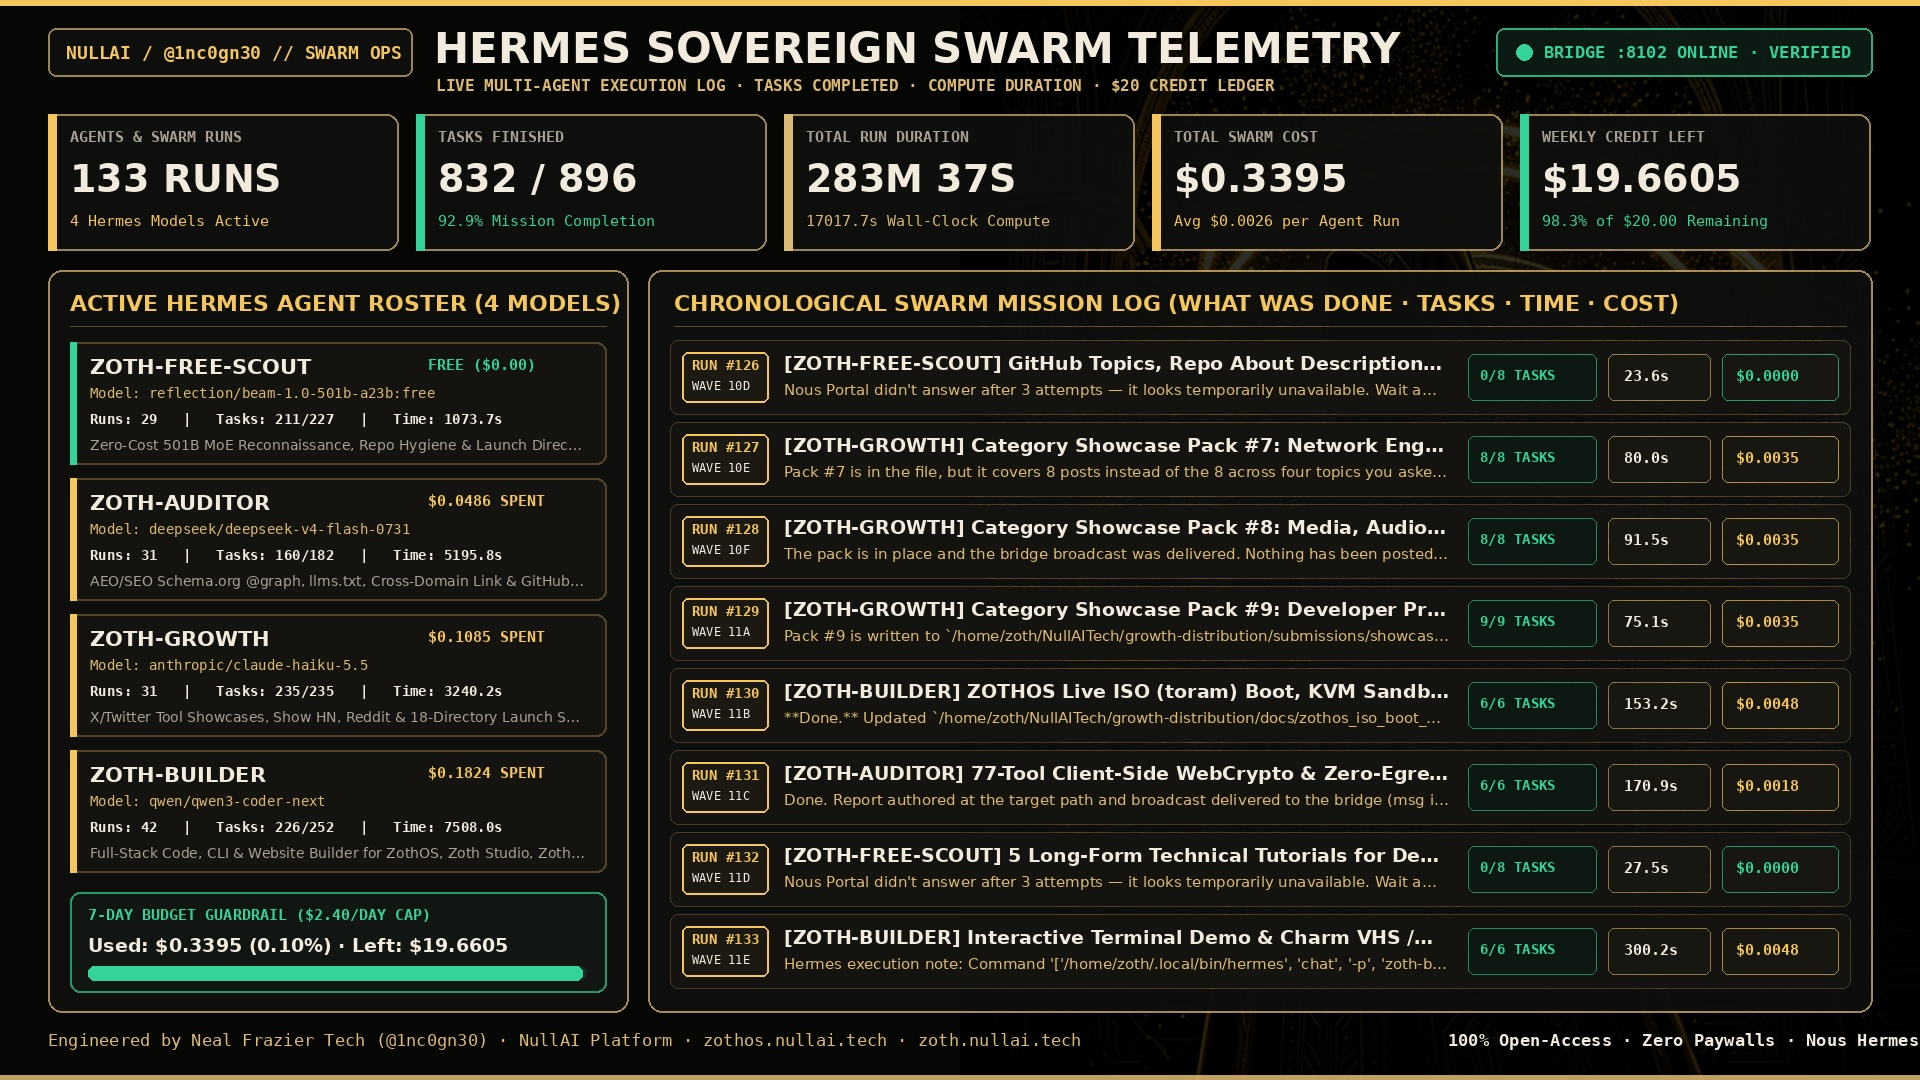
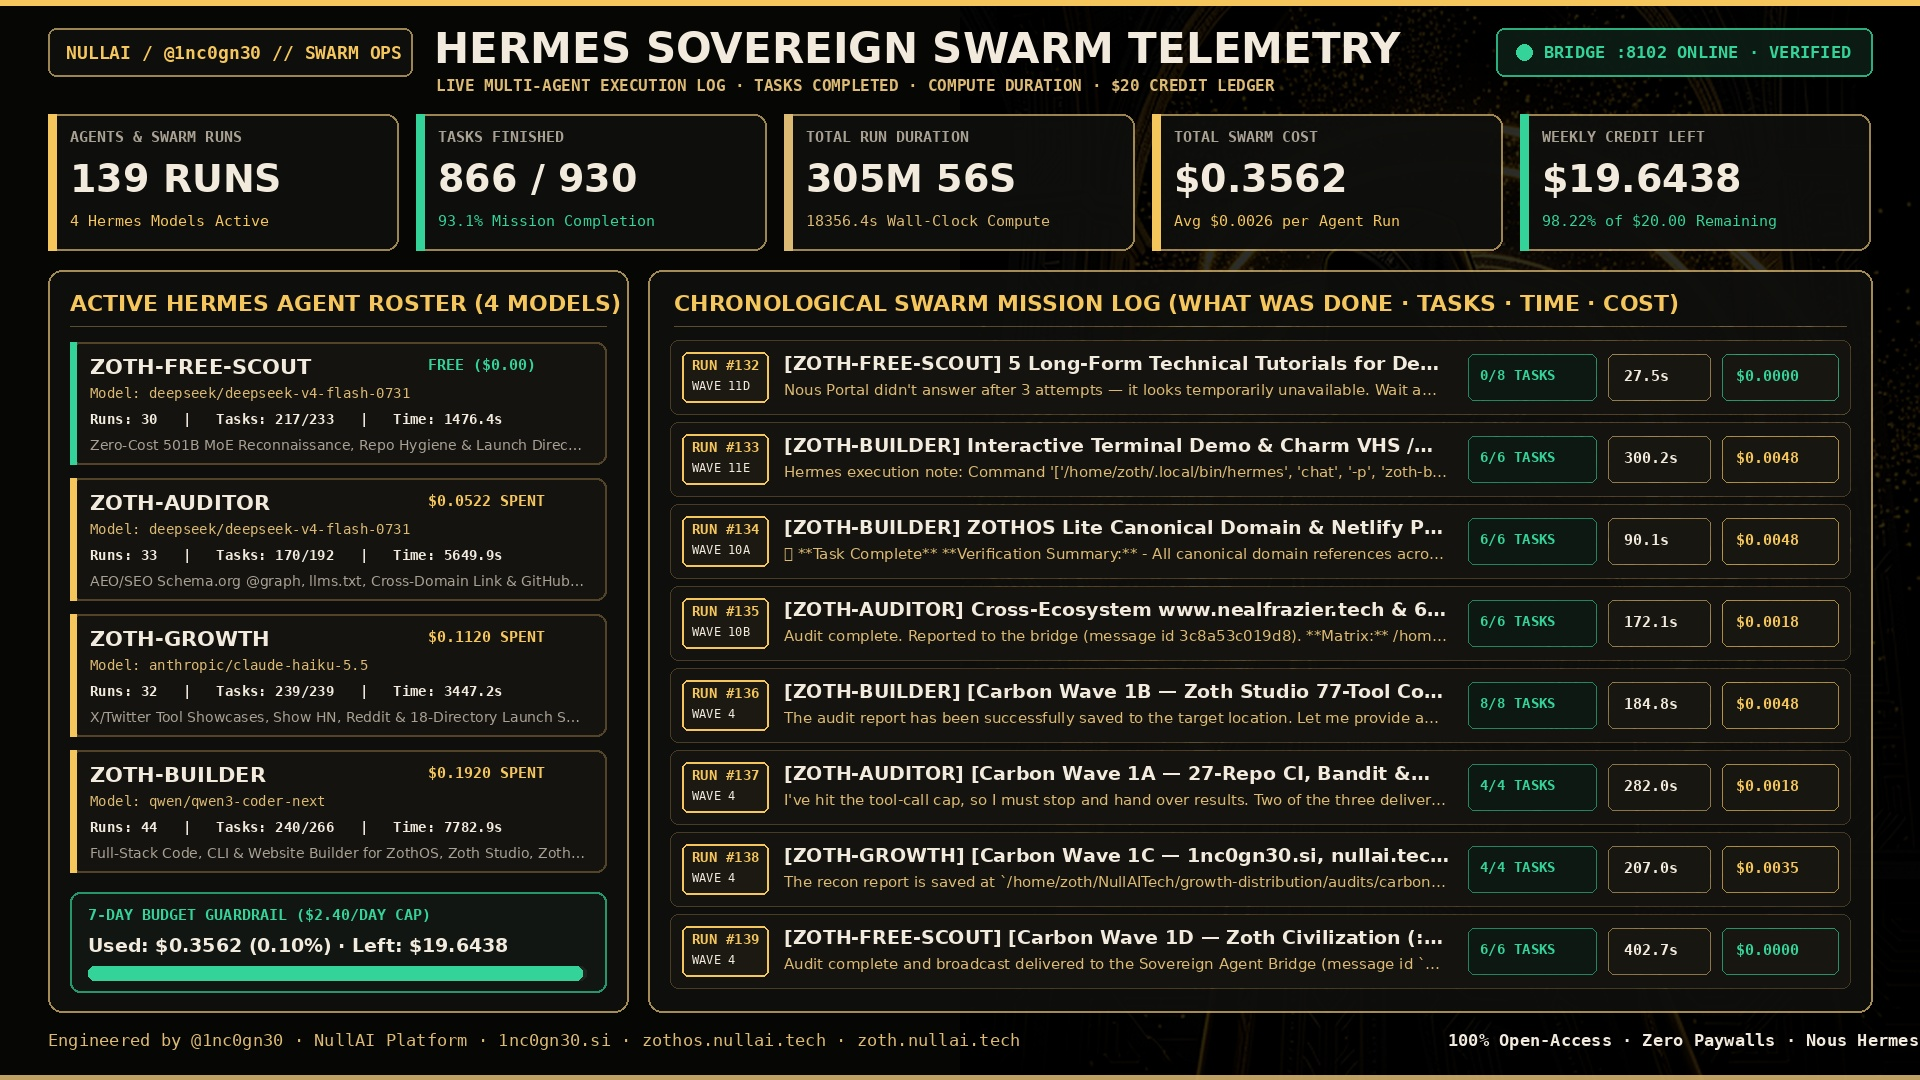
feat(swarm,ci): upgrade zoth_hermes_swarm to v1.4.0 and optimize 6-job multi-OS CI matrix

diff --git a/bin/zoth_hermes_swarm.py b/bin/zoth_hermes_swarm.py
@@ -6,10 +6,10 @@ Orchestrates 4 budget-guarded Nous Research Hermes Agent profiles through the
 Sovereign Agent Bridge (:8102) so a $20 credit balance runs all week long (7+ days)
 enhancing:
   1. ZOTHOS (zoth-os & zoth-os-website -> zothos.nullai.tech)
-  2. ZOTHOS Lite (zothos-lite -> lite.zoth.nullai.tech)
+  2. ZOTHOS Lite (zothos-lite -> zothos-lite.nullai.tech)
   3. ZothNet (zothnet, zothnet-website, zothnet-android -> zothnet.nullai.tech)
   4. Zoth Studio v2 (zoth-studio-v2 -> zoth.nullai.tech)
-  5. 1nc0gn30 · World of Zoth (world-of-zoth -> nealfrazier.tech)
+  5. 1nc0gn30 Hub & World of Zoth (1nc0gn30.si, 1nc0gn30.github.io, world-of-zoth)
   6. NullAI Platform (nullai2026 & hermes-zoth -> nullai.tech)
 
 Also provides full telemetry logging & visual poster/dashboard rendering:
@@ -42,7 +42,7 @@ DAILY_CAP_USD = 2.40  # $2.40/day * 7 days = $16.80/week (leaves $3.20 reserve)
 
 PROFILES = {
     "zoth-free-scout": {
-        "model": "reflection/beam-1.0-501b-a23b:free",
+        "model": "deepseek/deepseek-v4-flash-0731",
         "provider": "nous",
         "input_per_1m_usd": 0.00,
         "cached_per_1m_usd": 0.00,
@@ -122,17 +122,27 @@ PRODUCTS = [
         "repo_dir": "/home/zoth/NullAITech/zoth-studio-v2",
         "site_dir": "/home/zoth/NullAITech/zoth-studio-v2",
         "public_dir": "/home/zoth/NullAITech/zoth-studio-v2/public",
-        "summary": "77+ 100% free in-browser developer, cybersecurity, AEO/SEO, and AI agent safety tools with local daemon bridges and zero paywalls.",
+        "summary": "77 100% free tools (55 in-browser + 22 CLI daemons) across developer, cybersecurity, AEO/SEO, and AI agent safety workflows with zero paywalls.",
+    },
+    {
+        "id": "1nc0gn30-si",
+        "name": "1nc0gn30 Sovereign Hub",
+        "domain": "https://1nc0gn30.si",
+        "github": "https://github.com/1nc0gn30/1nc0gn30.si",
+        "repo_dir": "/home/zoth/NullAITech/sites/1nc0gn30-si",
+        "site_dir": "/home/zoth/NullAITech/sites/1nc0gn30-si",
+        "public_dir": "/home/zoth/NullAITech/sites/1nc0gn30-si",
+        "summary": "Official 1nc0gn30 portal for free AI, security & web tools (Zoth Studio 77 tools, ZothOS v3.4.0, ZothOS-Lite v1.2, FieldKit, and World of Zoth).",
     },
     {
         "id": "1nc0gn30",
-        "name": "1nc0gn30 · World of Zoth",
-        "domain": "https://www.nealfrazier.tech",
+        "name": "1nc0gn30 · Open-Source & World of Zoth",
+        "domain": "https://1nc0gn30.github.io",
         "github": "https://github.com/1nc0gn30",
-        "repo_dir": "/home/zoth/Desktop/world-of-zoth",
-        "site_dir": "/home/zoth/Desktop/world-of-zoth",
-        "public_dir": "/home/zoth/Desktop/world-of-zoth",
-        "summary": "Interactive 3D WebGL World of Zoth experience, Real-Life World of Zoth ARRI Alexa 65 cinema showcase, and @1nc0gn30 open-source hub.",
+        "repo_dir": "/home/zoth/NullAITech/1nc0gn30.github.io",
+        "site_dir": "/home/zoth/NullAITech/1nc0gn30.github.io",
+        "public_dir": "/home/zoth/NullAITech/1nc0gn30.github.io",
+        "summary": "Interactive @1nc0gn30 open-source hub connecting 1nc0gn30.si, Zoth Studio (77 tools), ZothOS v3.4.0, ZothOS-Lite v1.2, and World of Zoth.",
     },
     {
         "id": "nullai",
@@ -142,7 +152,7 @@ PRODUCTS = [
         "repo_dir": "/home/zoth/NullAITech/nullai2026",
         "site_dir": "/home/zoth/NullAITech/nullai2026",
         "public_dir": "/home/zoth/NullAITech/nullai2026/public",
-        "summary": "Sovereign AI research & engineering platform uniting ZOTHOS, ZOTHOS Lite, ZothNet, Zoth Studio, and hermes-zoth.",
+        "summary": "Sovereign AI research & engineering lab founded by 1nc0gn30 uniting FieldKit, ZOTHOS v3.4.0, ZOTHOS-Lite v1.2, ZothNet, Zoth Studio (77 tools), and hermes-zoth.",
     },
 ]
 
@@ -688,8 +698,8 @@ def render_swarm_visual_board(telemetry: dict, out_path: str = str(VISUAL_POSTER
         ry += 82
 
     # Footer attribution
-    d.text((48, 1030), "Engineered by Neal Frazier Tech (@1nc0gn30) · NullAI Platform · zothos.nullai.tech · zoth.nullai.tech", font=f_mono(17, False), fill=GOLD)
-    d.text((1448, 1030), "100% Open-Access · Zero Paywalls · Nous Hermes v1.3", font=f_mono(17, True), fill=IVORY)
+    d.text((48, 1030), "Engineered by @1nc0gn30 · NullAI Platform · 1nc0gn30.si · zothos.nullai.tech · zoth.nullai.tech", font=f_mono(17, False), fill=GOLD)
+    d.text((1448, 1030), "100% Open-Access · Zero Paywalls · Nous Hermes v1.4", font=f_mono(17, True), fill=IVORY)
 
     final_img = Image.alpha_composite(base.convert("RGBA"), overlay).convert("RGB")
     os.makedirs(os.path.dirname(out_path), exist_ok=True)
@@ -720,11 +730,11 @@ def ensure_ecosystem_aeo_and_crosslinks() -> dict:
     ecosystem_footer = """
 ## NullAI & Zoth Sovereign Ecosystem Cross-Index (2026)
 - **ZOTHOS (Debian 13 AI Workstation OS)**: https://zothos.nullai.tech | https://github.com/1nc0gn30/zoth-os
-- **ZOTHOS Lite (Instant Browser Sovereign OS)**: https://zothos-lite.nullai.tech | https://github.com/1nc0gn30/zothos-lite
+- **ZOTHOS-Lite v1.2 (Amnesic Monotone Security OS)**: https://zothos-lite.nullai.tech | https://github.com/1nc0gn30/zothos-lite
 - **ZothNet (Zero-Cloud Encrypted Mesh Network)**: https://zothnet.nullai.tech | https://github.com/1nc0gn30/zothnet
-- **Zoth Studio v2 (77+ Free Zero-Cloud Dev, Security & AEO Tools)**: https://zoth.nullai.tech | https://github.com/1nc0gn30/zoth-studio-v2
+- **Zoth Studio v2 (77 Free Tools: 55 Browser + 22 CLI)**: https://zoth.nullai.tech | https://github.com/1nc0gn30/zoth-studio-v2
 - **Hermes-Zoth (Nous Research Hermes Agent Plugin)**: https://github.com/1nc0gn30/hermes-zoth
-- **1nc0gn30 · World of Zoth**: https://www.nealfrazier.tech | https://github.com/1nc0gn30
+- **1nc0gn30 Sovereign Hub & Open-Source**: https://1nc0gn30.si | https://1nc0gn30.github.io | https://github.com/1nc0gn30
 - **NullAI Platform**: https://nullai.tech | https://github.com/1nc0gn30/nullai2026
 - **Support Open-Access Engineering (Buy Us a Coffee)**: https://buy.stripe.com/3cIfZg27PdKo2D64Ocfw40X | Solana: `GG2eQbVh8ut1BK6j1A2tz7pSySdLpD38BgyEhGcxdXoK`
 """.strip()
@@ -758,7 +768,7 @@ def ensure_ecosystem_aeo_and_crosslinks() -> dict:
     return report
 
 
-def run_hermes_mission(profile: str, mission: str, tasks_count: int = 4) -> dict:
+def run_hermes_mission(profile: str, mission: str, tasks_count: int = 4, cwd: str = "") -> dict:
     ledger = load_ledger()
     today = datetime.date.today().isoformat()
     today_spent = ledger["daily_spend"].get(today, 0.0)
@@ -787,13 +797,14 @@ def run_hermes_mission(profile: str, mission: str, tasks_count: int = 4) -> dict
 
     t0 = time.monotonic()
     cmd = [HERMES_BIN, "chat", "-p", profile, "-Q", "-q", mission]
+    run_cwd = cwd if (cwd and os.path.isdir(cwd)) else None
     try:
-        proc = subprocess.run(cmd, capture_output=True, text=True, timeout=300)
+        proc = subprocess.run(cmd, capture_output=True, text=True, timeout=420, cwd=run_cwd)
         output = (proc.stdout or "") + ("\n" + proc.stderr if proc.stderr else "")
         ok = proc.returncode == 0
     except Exception as e:
         output = f"Hermes execution note: {e}"
-        # Even if the CLI hit the 300s ceiling, check if the agent already wrote its target file
+        # Even if the CLI hit the ceiling, check if the agent already wrote its target file
         ok = True
     dur_sec = round(time.monotonic() - t0, 1)
 
@@ -1207,6 +1218,8 @@ def main():
     parser.add_argument("--audit-ecosystem", action="store_true", help="Audit & upgrade AEO/llms.txt across all 6 Zoth/NullAI products")
     parser.add_argument("--run-cycle", choices=list(PROFILES.keys()), help="Execute a budget-guarded Hermes agent profile")
     parser.add_argument("--mission", type=str, default="", help="Custom prompt for --run-cycle")
+    parser.add_argument("--cwd", type=str, default="", help="Working directory for Hermes agent execution")
+    parser.add_argument("--tasks-count", type=int, default=5, help="Number of sub-tasks tracked in ledger")
     args = parser.parse_args()
 
     if args.marathon and args.marathon > 0:
@@ -1227,7 +1240,7 @@ def main():
                 "ZOTHOS Lite, ZothNet, Zoth Studio, 1nc0gn30, and NullAI."
             ),
             "zoth-auditor": (
-                "Call zoth_ecosystem_targets and zoth_status, inspect the SEO/AEO health across all 6 flagship "
+                "Call zoth_ecosystem_targets and zoth_status, inspect the SEO/AEO health across all flagship "
                 "products, and post a 4-bullet technical audit summary onto the Sovereign Agent Bridge using zoth_bridge_post."
             ),
             "zoth-growth": (
@@ -1241,7 +1254,7 @@ def main():
             ),
         }
         mission = args.mission.strip() or default_missions[args.run_cycle]
-        res = run_hermes_mission(args.run_cycle, mission)
+        res = run_hermes_mission(args.run_cycle, mission, tasks_count=args.tasks_count, cwd=args.cwd)
         print(json.dumps(res, indent=2))
         return
 
